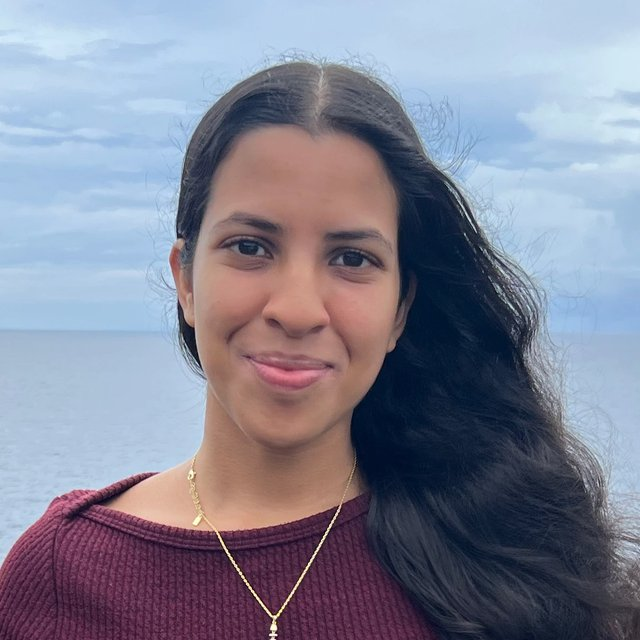
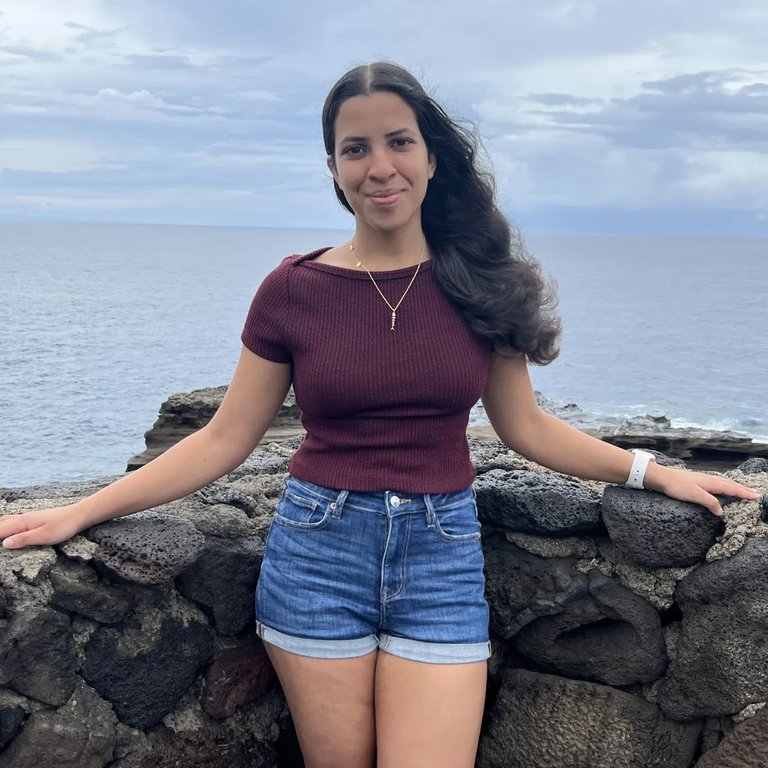
Use wider photo showing more of the scene

diff --git a/index.html b/index.html
@@ -10,7 +10,7 @@
 <body>
   <main>
     <header>
-      <img class="avatar" src="avatar.jpg" alt="Portrait of Ananya Jain" width="160" height="160">
+      <img class="avatar" src="avatar.jpg" alt="Portrait of Ananya Jain" width="192" height="192">
       <h1>Ananya Jain</h1>
     </header>
 

diff --git a/style.css b/style.css
@@ -35,8 +35,8 @@ main {
 
 .avatar {
   display: block;
-  width: 10rem;
-  height: 10rem;
+  width: 12rem;
+  height: 12rem;
   margin-bottom: 2rem;
   border-radius: 50%;
   object-fit: cover;
